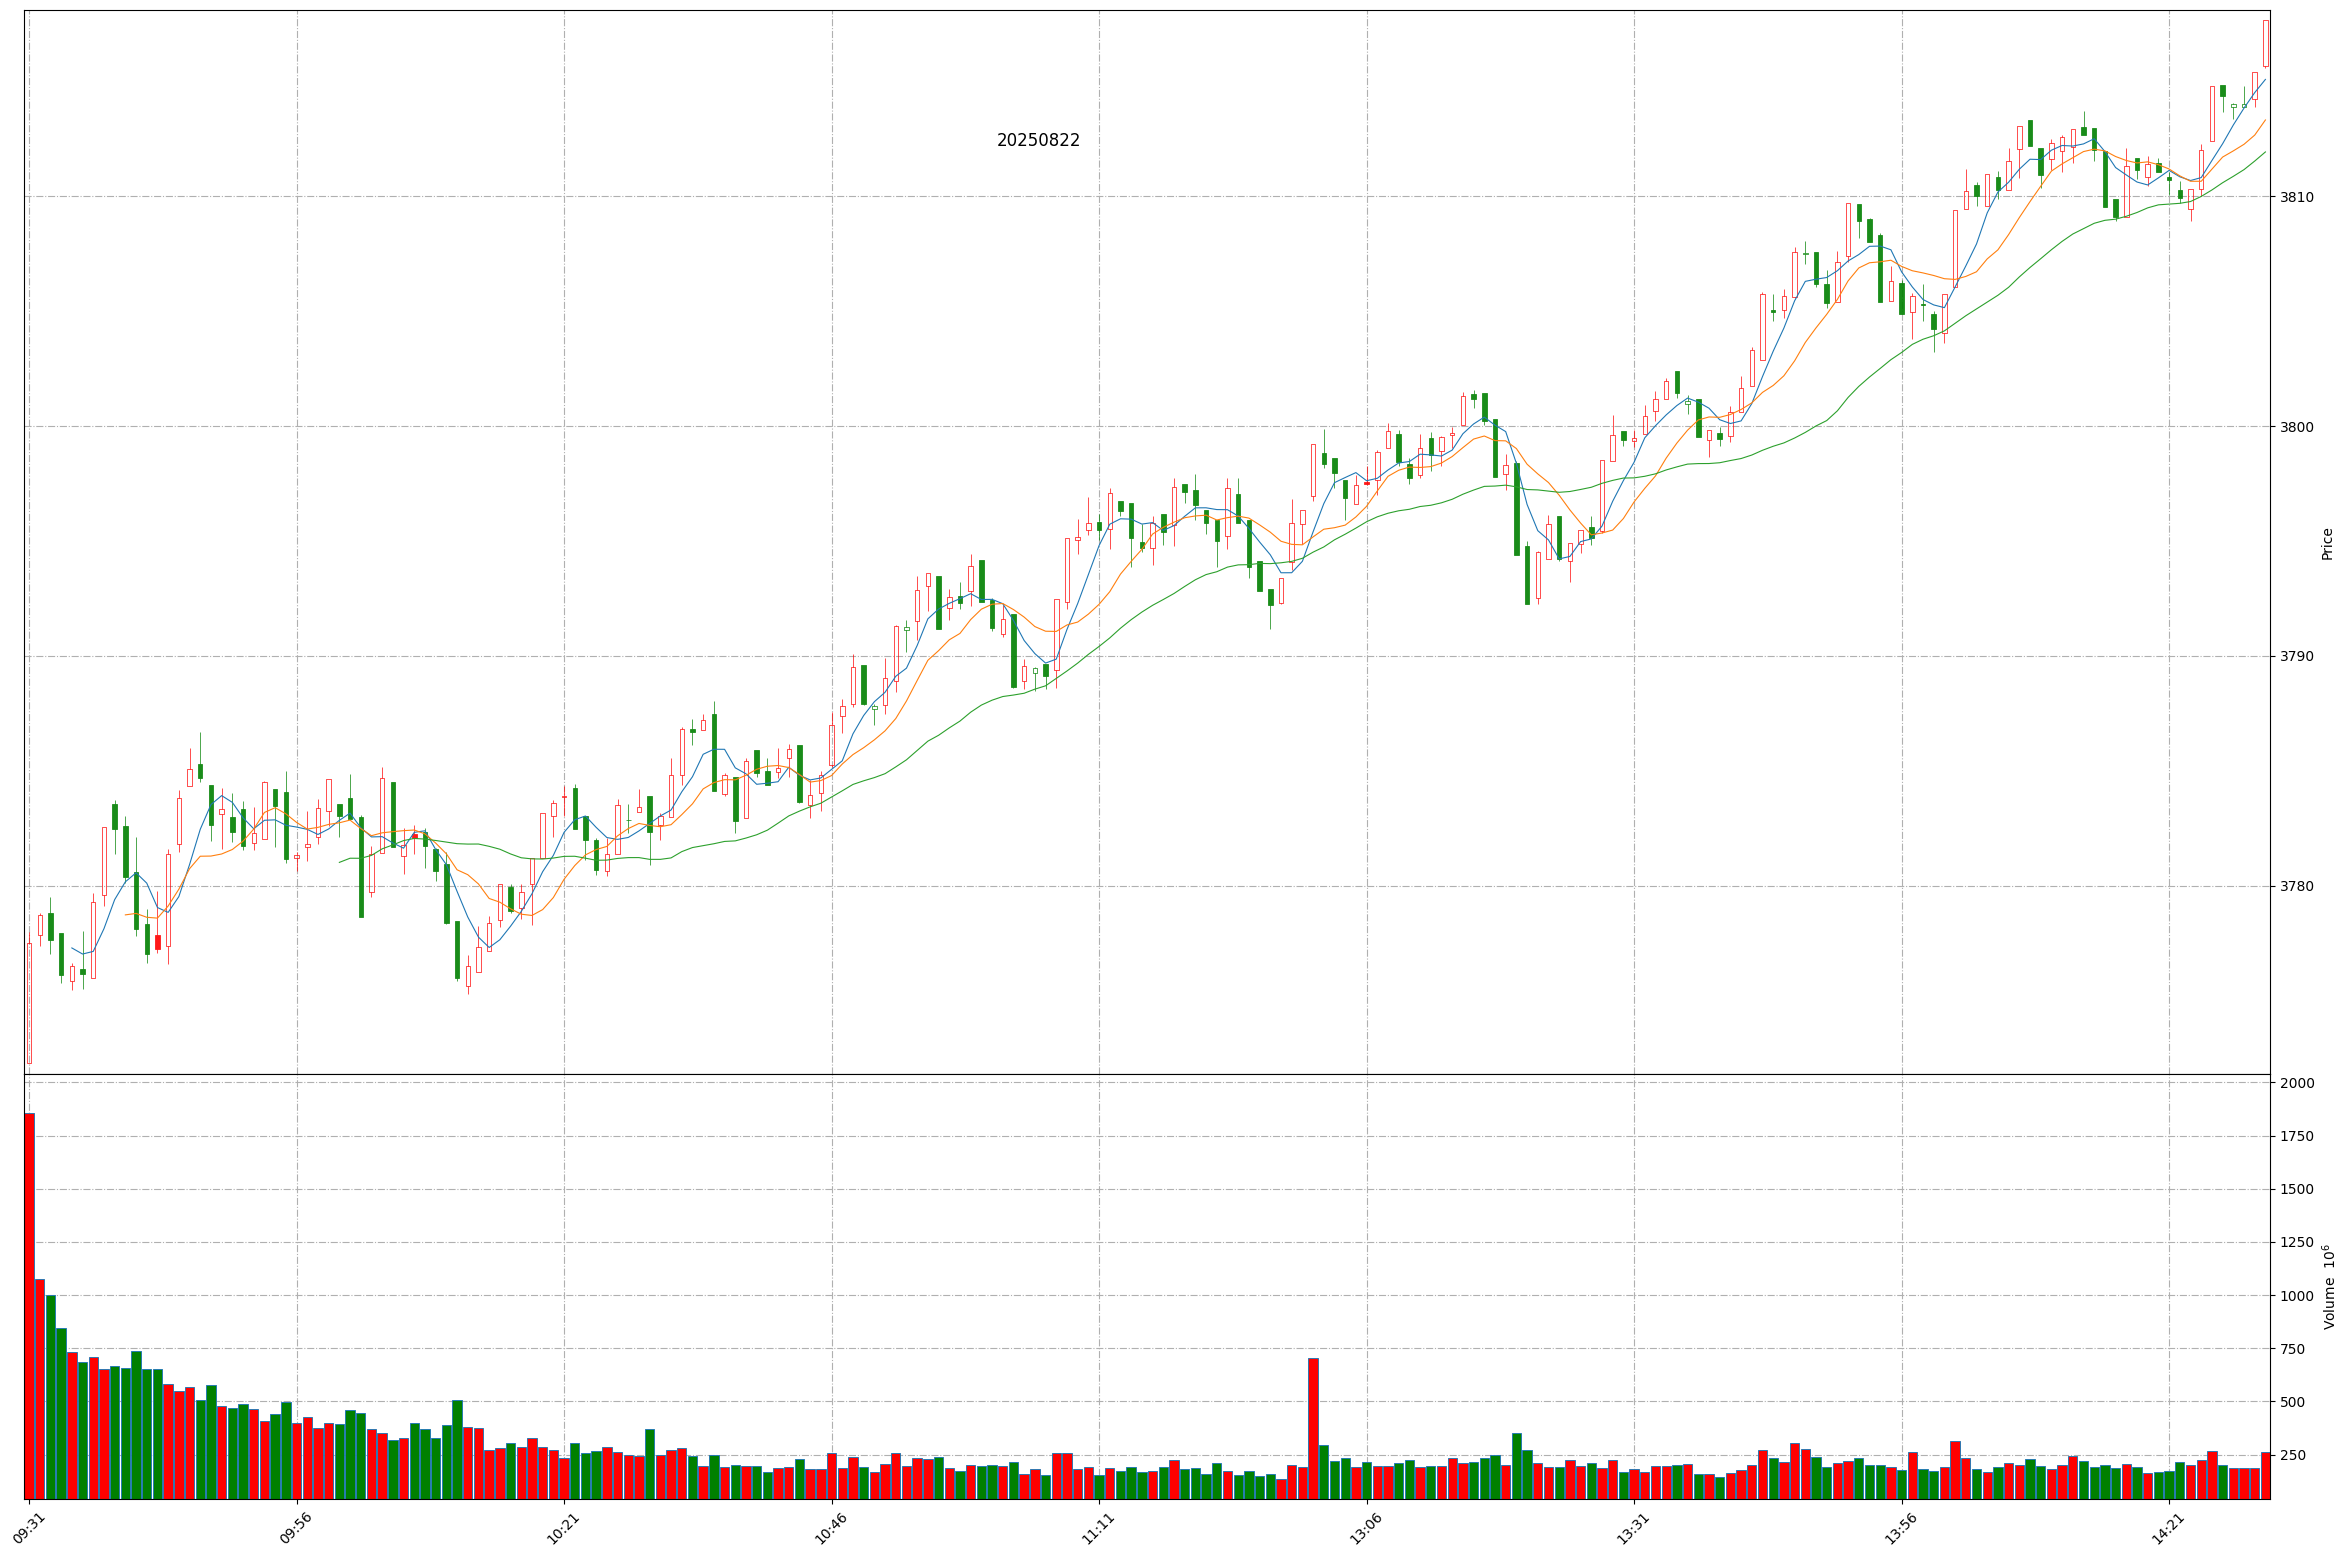
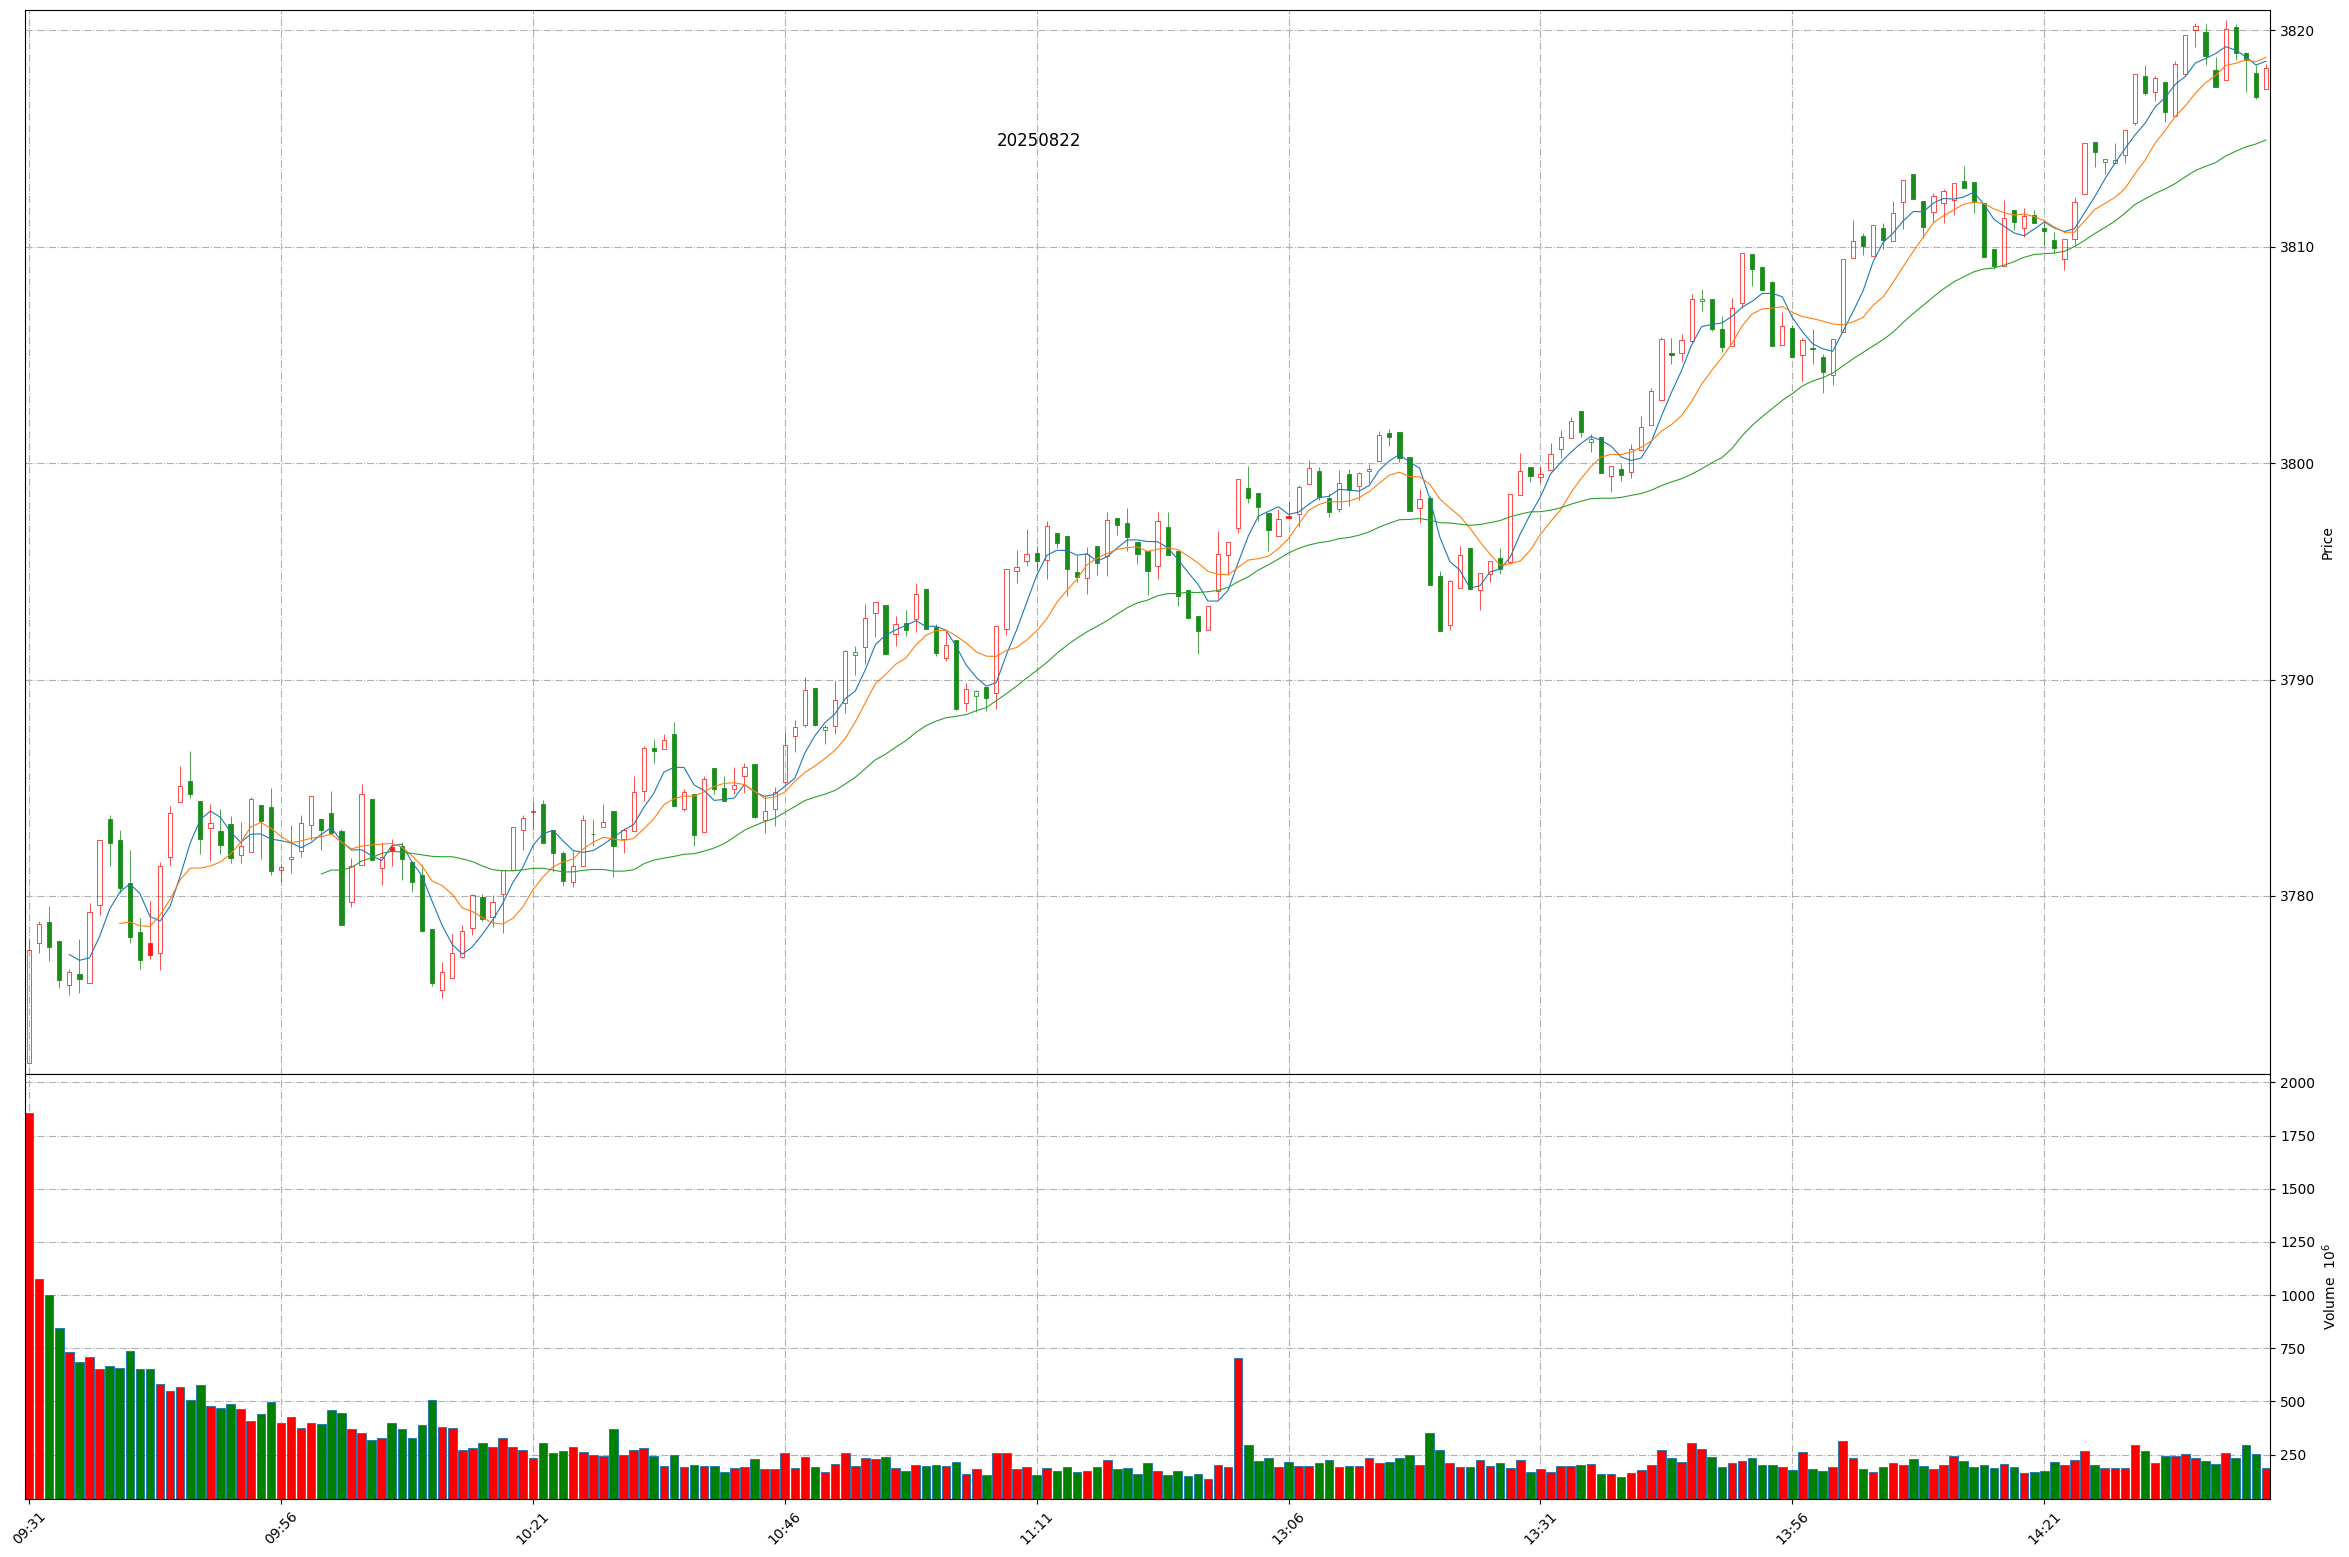
Github action update at 2025-08-22 14:43:18.

Changed region(s): [[0.0, 0.0, 0.9634, 0.6166], [0.0, 0.8324, 0.9634, 0.9865], [0.9634, 0.5549, 0.9945, 0.5857]]

diff --git a/README.md b/README.md
@@ -1,11 +1,11 @@
 
 # Daily-A-share-market-quotes 每日 A 股指数（5min 更新）- 20250822
 
-### 上证指数 20250822 14:30
+### 上证指数 20250822 14:43
 ![](./fig/2025/8/20250822-sh000001.png)
 
-### 深证成指 20250822 14:30
+### 深证成指 20250822 14:43
 ![](./fig/2025/8/20250822-sz399001.png)
 
-### 北证50 20250822 14:30
+### 北证50 20250822 14:43
 ![](./fig/2025/8/20250822-bj899050.png)
